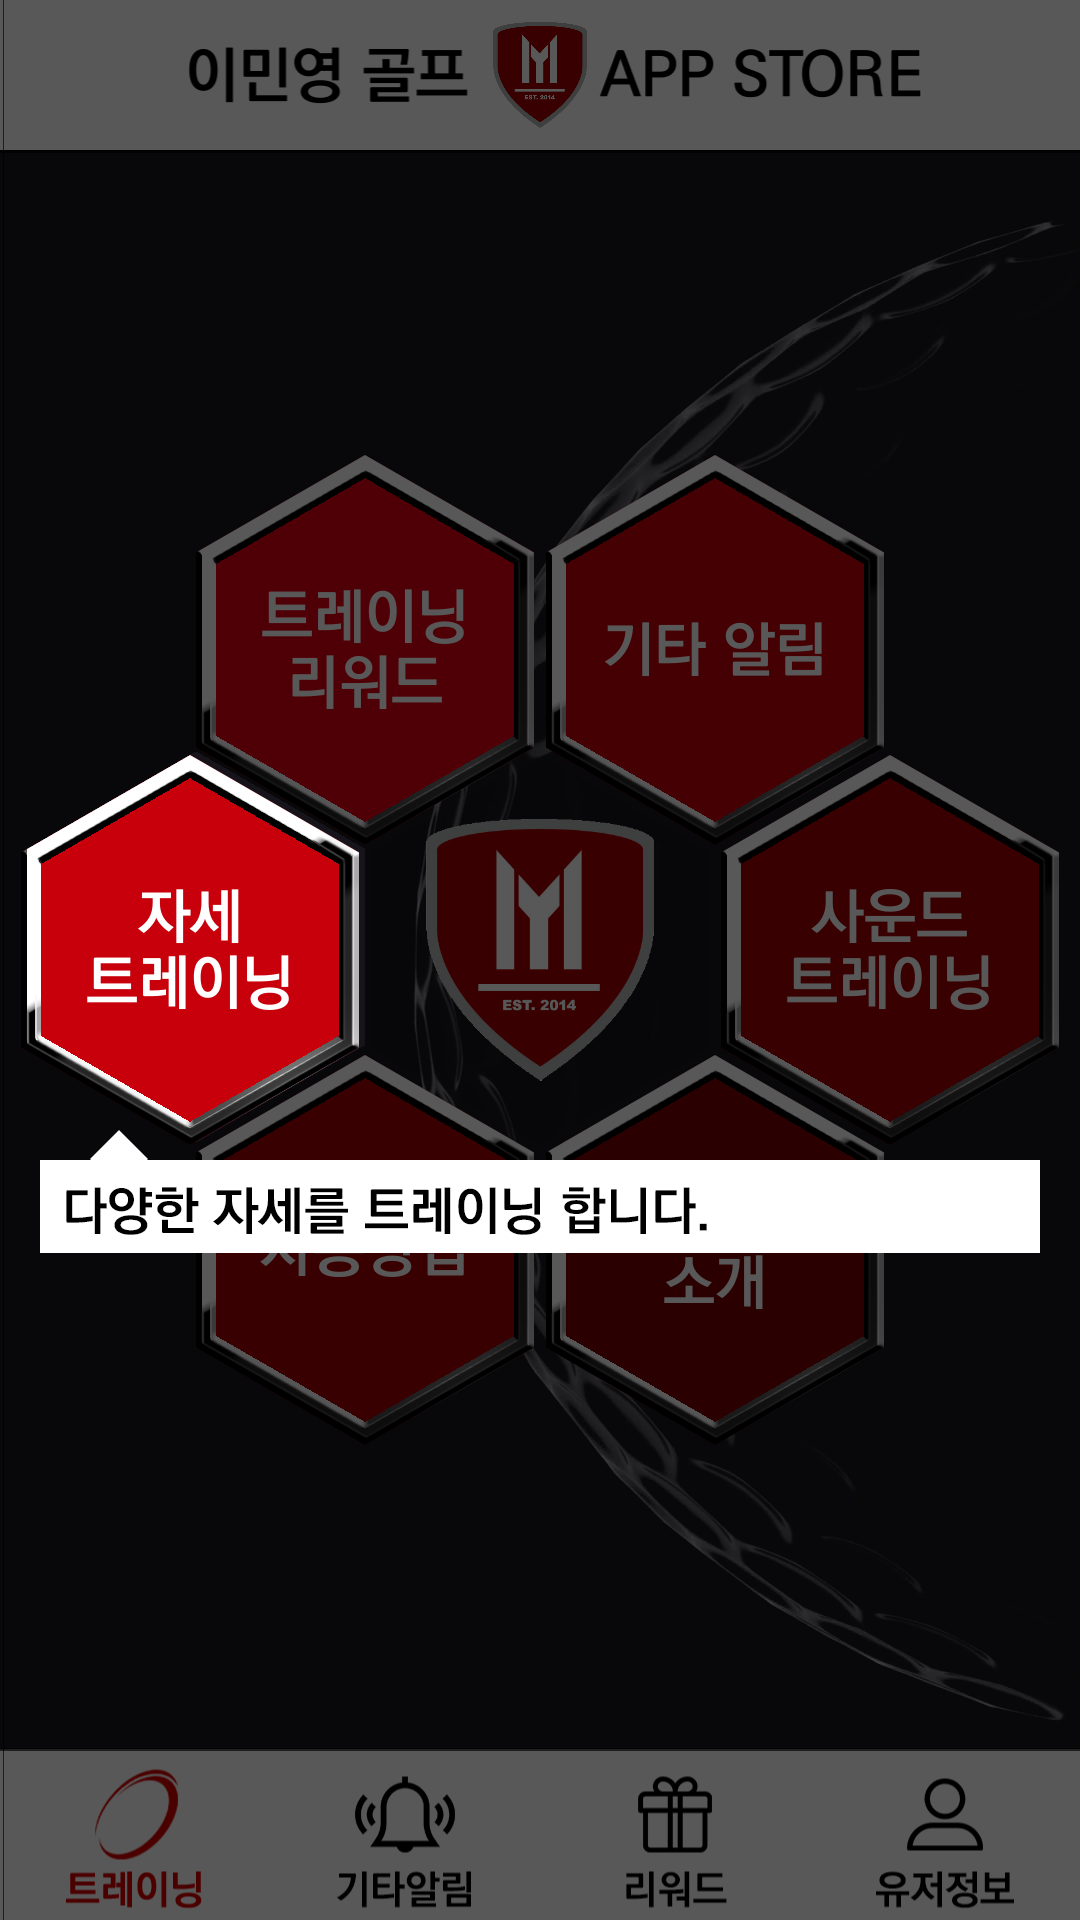
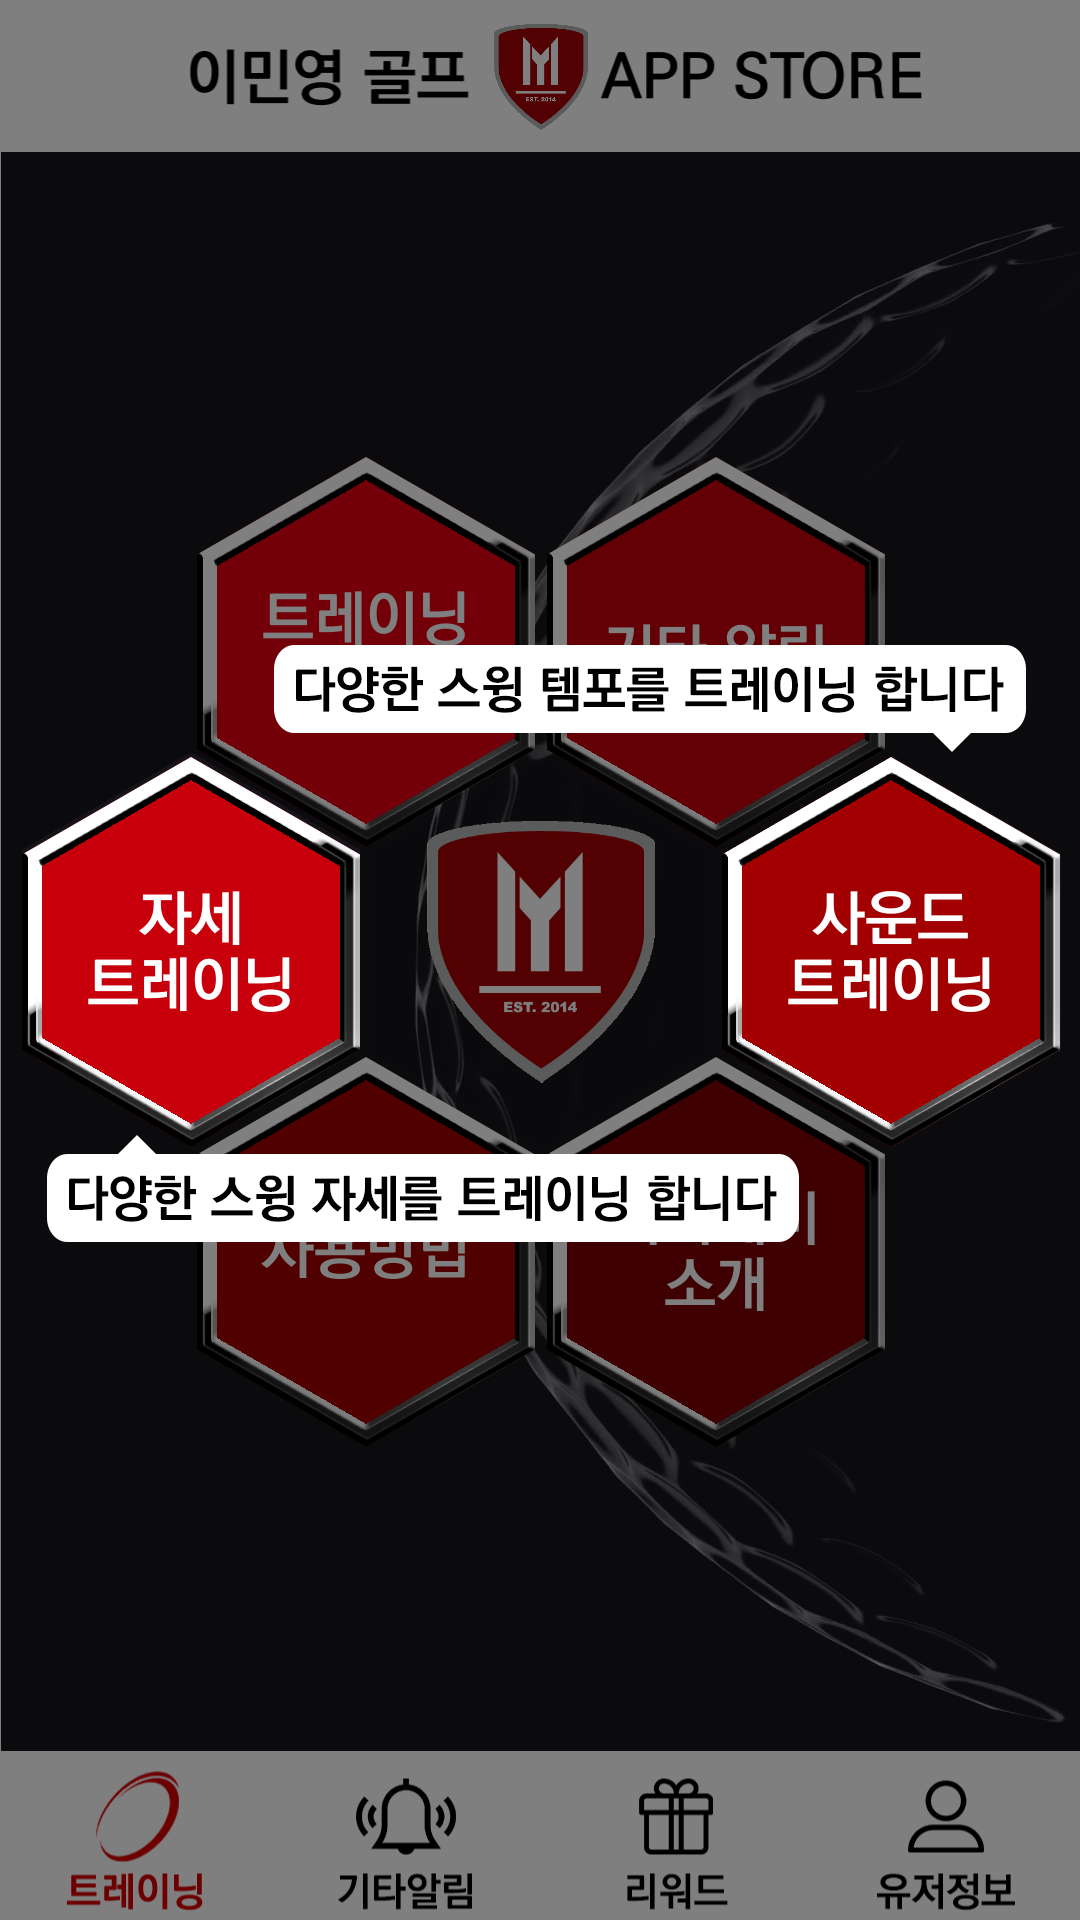
[배환웅] 피드백 수정중

diff --git a/Golf/Assets/PopupUserSetting.cs b/Golf/Assets/PopupUserSetting.cs
@@ -24,6 +24,7 @@ public class PopupUserSetting : Popup
     private bool TermsEnable = false;
     private Action OkAction = null;
     private CommonData.GENDER Gender = CommonData.GENDER.GENDER_MAN;
+    private bool Firstuser = false;
 
     public PopupUserSetting()
         : base(PopupMgr.POPUP_TYPE.USER_SETTING)
@@ -49,7 +50,8 @@ public class PopupUserSetting : Popup
         if (popupData == null)
             return;
 
-        if (popupData.FirstUser)
+        Firstuser = popupData.FirstUser;
+        if (Firstuser)
         {
             Title.text = "회원가입";
             Cancel.gameObject.SetActive(false);
@@ -112,9 +114,24 @@ public class PopupUserSetting : Popup
             return;
         }
         */
-        if(TermsEnable == false)
+        if(Firstuser)
         {
-            PopupMgr.Instance.ShowPopup(PopupMgr.POPUP_TYPE.MSG, new PopupMsg.PopupData("트레이닝 포인트에 따른 각종 혜택을 받기 위해서 개인정보 취급동의가 필요 합니다.", () =>
+            if (TermsEnable == false)
+            {
+                PopupMgr.Instance.ShowPopup(PopupMgr.POPUP_TYPE.MSG, new PopupMsg.PopupData("트레이닝 포인트에 따른 각종 혜택을 받기 위해서 개인정보 취급동의가 필요 합니다.", () =>
+                {
+                    TKManager.Instance.SetName(Name.text.ToString());
+                    TKManager.Instance.SetPhoneNumber(Number.text.ToString());
+                    TKManager.Instance.SetGender(Gender);
+
+                    if (OkAction != null)
+                        OkAction();
+
+                    TKManager.Instance.SaveFile();
+                    PopupMgr.Instance.DismissPopup();
+                }));
+            }
+            else
             {
                 TKManager.Instance.SetName(Name.text.ToString());
                 TKManager.Instance.SetPhoneNumber(Number.text.ToString());
@@ -125,7 +142,7 @@ public class PopupUserSetting : Popup
 
                 TKManager.Instance.SaveFile();
                 PopupMgr.Instance.DismissPopup();
-            }));
+            }
         }
         else
         {
@@ -139,6 +156,7 @@ public class PopupUserSetting : Popup
             TKManager.Instance.SaveFile();
             PopupMgr.Instance.DismissPopup();
         }
+        
     }
 
     public void OnClickCancel()

diff --git a/Golf/Assets/Script/UI/Page/MainTraningUI.cs b/Golf/Assets/Script/UI/Page/MainTraningUI.cs
@@ -235,7 +235,7 @@ public class MainTraningUI : MonoBehaviour {
                 else if (i == 4)
                     HexagonMenu[i].Init("아카데미\n소개", "", CommonFunc.HexToColor(HexagonMenuColor[i], 1f), OnClickAcademyInfo);
                 else if (i == 5)
-                    HexagonMenu[i].Init("튜토리얼\n영상", "", CommonFunc.HexToColor(HexagonMenuColor[i], 1f), OnClickTutorial);
+                    HexagonMenu[i].Init("사용방법", "", CommonFunc.HexToColor(HexagonMenuColor[i], 1f), OnClickTutorial);
             }
 
             ChangeTempoTraningPosLevel();
@@ -344,19 +344,28 @@ public class MainTraningUI : MonoBehaviour {
         if (MenuAction)
             return;
         List<string> list = new List<string>();
-        if (TrainingSetStep == TRAINING_SET_STEP.MAIN)
+        
+        if(TrainingType == CommonData.TRAINING_TYPE.TRAINING_POSE)
         {
-            list.Add("t_1");
-            list.Add("t_2");
-            list.Add("t_3");
-            PopupMgr.Instance.ShowPopup(PopupMgr.POPUP_TYPE.HELP, new PopupHelp.PopupData(list));
+            if (TrainingSetStep == TRAINING_SET_STEP.MAIN)
+            {
+                list.Add("t_1");
+                list.Add("t_2");
+                PopupMgr.Instance.ShowPopup(PopupMgr.POPUP_TYPE.HELP, new PopupHelp.PopupData(list));
+            }
+            else
+            {
+                list.Add("t_1_1");
+                list.Add("t_1_2");
+                list.Add("t_1_3");
+                list.Add("t_1_4");
+                PopupMgr.Instance.ShowPopup(PopupMgr.POPUP_TYPE.HELP, new PopupHelp.PopupData(list));
+            }
         }
         else
         {
-            list.Add("t_1_1");
-            list.Add("t_1_2");
-            list.Add("t_1_3");
-            list.Add("t_1_4");
+            list.Add("t_2_1");
+            list.Add("t_2_2");
             PopupMgr.Instance.ShowPopup(PopupMgr.POPUP_TYPE.HELP, new PopupHelp.PopupData(list));
         }
         

diff --git a/Golf/Assets/Script/Manager/TKManager.cs b/Golf/Assets/Script/Manager/TKManager.cs
@@ -23,7 +23,7 @@ public class TKManager : MonoBehaviour
     private CommonData.GENDER Gender;
     public string Name { get; private set; }
     private int Grade = 1;
-    public int Point { get; private set; }
+    public int Point = 0;
     public string PhoneNumber { get; private set; }
     public CommonData.TRAINING_TYPE TrainingType;
     public CommonData.TRAINING_POSE PoseType;
@@ -159,6 +159,7 @@ public class TKManager : MonoBehaviour
         public CommonData.GENDER Gender = CommonData.GENDER.GENDER_MAN;
         public string Name = "";
         public int Grade = 1;
+        public int Point = 0;
         public string PhoneNumber = "";
         public List<EvaluationData> EvaluationDataList = new List<EvaluationData>();
         public string ThumbnailSpritePath = "";
@@ -169,6 +170,7 @@ public class TKManager : MonoBehaviour
             Gender = TKManager.Instance.GetGender();
             Name = TKManager.Instance.Name;
             Grade = TKManager.Instance.GetGrade();
+            Point = TKManager.Instance.Point;
             PhoneNumber = TKManager.Instance.PhoneNumber;
             EvaluationDataList = DataManager.Instance.EvaluationDataList;
             ThumbnailSpritePath = TKManager.Instance.ThumbnailSpritePath;
@@ -181,6 +183,7 @@ public class TKManager : MonoBehaviour
             TKManager.Instance.Name = Name;
             TKManager.Instance.SetGrade(Grade);
             TKManager.Instance.PhoneNumber = PhoneNumber;
+            TKManager.Instance.Point = Point;
 
             if (EvaluationDataList == null)
                 DataManager.Instance.EvaluationDataList = new List<EvaluationData>();

diff --git a/Golf/Assets/PracticeUI.cs b/Golf/Assets/PracticeUI.cs
@@ -96,7 +96,8 @@ public class PracticeUI : MonoBehaviour
 
         if (TKManager.Instance.GetTrainingType() == CommonData.TRAINING_TYPE.TRAINING_TEMPO)
         {
-           
+
+            TrainingGetPoint.text = "0회";
             Model_BendDown.SetActive(false);
             Model_BendUp.SetActive(false);
 
@@ -350,6 +351,17 @@ public class PracticeUI : MonoBehaviour
                         bSuccessEnter = true;
 
                         waitTime = CommonData.TRAINING_READY_TIME;
+                    }
+
+                    while (SoundManager.Instance.IsFxAudioPlay())
+                    {
+                        yield return null;
+                    }
+
+                    if (TrainingSuccess == false)
+                    {
+                        bSuccessEnter = true;
+                        continue;
                     }
                 }
                 else
@@ -781,7 +793,7 @@ public class PracticeUI : MonoBehaviour
         PracticeOrderType = PRACTICE_ORDER.END;
         PopupMgr.Instance.ShowPopup(PopupMgr.POPUP_TYPE.MSG, new PopupMsg.PopupData("훈련을 종료 하시겠습니까?", () =>
          {
-             PopupMgr.Instance.ShowPopup(PopupMgr.POPUP_TYPE.SELF_EVALUATION, new PopupSelfEvaluation.PopupData(TrainingSuccessCount, () =>
+             PopupMgr.Instance.ShowPopup(PopupMgr.POPUP_TYPE.SELF_EVALUATION, new PopupSelfEvaluation.PopupData(TrainingSuccessCount,() =>
              {
                  GyroScopeManager.Instance.DestroyGyro();
                  StopAllCoroutines();

diff --git a/Golf/Assets/Script/Popup/PopupSelfEvaluation.cs b/Golf/Assets/Script/Popup/PopupSelfEvaluation.cs
@@ -17,6 +17,7 @@ public class PopupSelfEvaluation : Popup
     private int StarCount = 1;
     private CommonData.TRAINING_TYPE TrainingType = CommonData.TRAINING_TYPE.TRAINING_POSE;
     private int TrainingCount = 0;
+    private int TrainingPoint = 0;
     private CommonData.TRAINING_POSE PoseType = CommonData.TRAINING_POSE.TRAINING_ADDRESS;
     private Dictionary<CommonData.TRAINING_ANGLE, int> AngleTypeList = new Dictionary<CommonData.TRAINING_ANGLE, int>();
     private Action EndAction = null;
@@ -56,11 +57,15 @@ public class PopupSelfEvaluation : Popup
 
         if (TrainingType == CommonData.TRAINING_TYPE.TRAINING_POSE)
         {
-            Title.text = string.Format("{0} {1}회", CommonFunc.ConvertPoseTypeStr(PoseType), TrainingCount);
+            TrainingPoint = TrainingCount * 3;
+            Title.text = string.Format("{0} {1}Point", CommonFunc.ConvertPoseTypeStr(PoseType), TrainingPoint);
         }
         else
+        {
+            TrainingPoint = 0;
             Title.text = string.Format("{0} {1}회", CommonFunc.ConvertTrainingTypeStr(TrainingType, false), TrainingCount);
-
+        }
+            
         Msg.text = "";
         RefreshStar();
     }
@@ -111,6 +116,9 @@ public class PopupSelfEvaluation : Popup
 
             DataManager.Instance.AddPracticeData(CommonData.TRAINING_TYPE.TRAINING_TEMPO);
         }
+
+        TKManager.Instance.Point += TrainingPoint;
+        TKManager.Instance.SaveFile();
 
         PopupMgr.Instance.DismissPopup();
 

diff --git a/Golf/Assets/UIMyInfo.cs b/Golf/Assets/UIMyInfo.cs
@@ -10,6 +10,7 @@ public class UIMyInfo : MonoBehaviour
     public GameObject ThumbnailCameraIcon;
     public Text Name;
     public Image GradeImg;
+    public Text Point;
     //public Text Grade;
     public Image Gender;
     public Button Edit;
@@ -26,6 +27,8 @@ public class UIMyInfo : MonoBehaviour
         if (editEnable == false)
             ThumbnailEdit.onClick.RemoveAllListeners();
         ThumbnailCameraIcon.gameObject.SetActive(editEnable);
+
+        Point.text = string.Format("{0:n0} Point", TKManager.Instance.Point);
 
         RefreshUI();
     }

diff --git a/Golf/Assets/Script/UI/Page/RewardUI.cs b/Golf/Assets/Script/UI/Page/RewardUI.cs
@@ -29,7 +29,7 @@ public class RewardUI : MonoBehaviour
 
         CommonFunc.SetGradeImg(ref GradeImg, TKManager.Instance.GetGrade());
         Grade.text = CommonFunc.GetGradeStr(TKManager.Instance.GetGrade());
-        Point.text = string.Format("현재 포인트 : {0:n0} Point", TKManager.Instance.Point + 1000);
+        Point.text = string.Format("현재 포인트 : {0:n0} Point", TKManager.Instance.Point);
 
         //for (int i = 0; i < DataManager.Instance.PracticeDataList.Count; i++)
         //{
